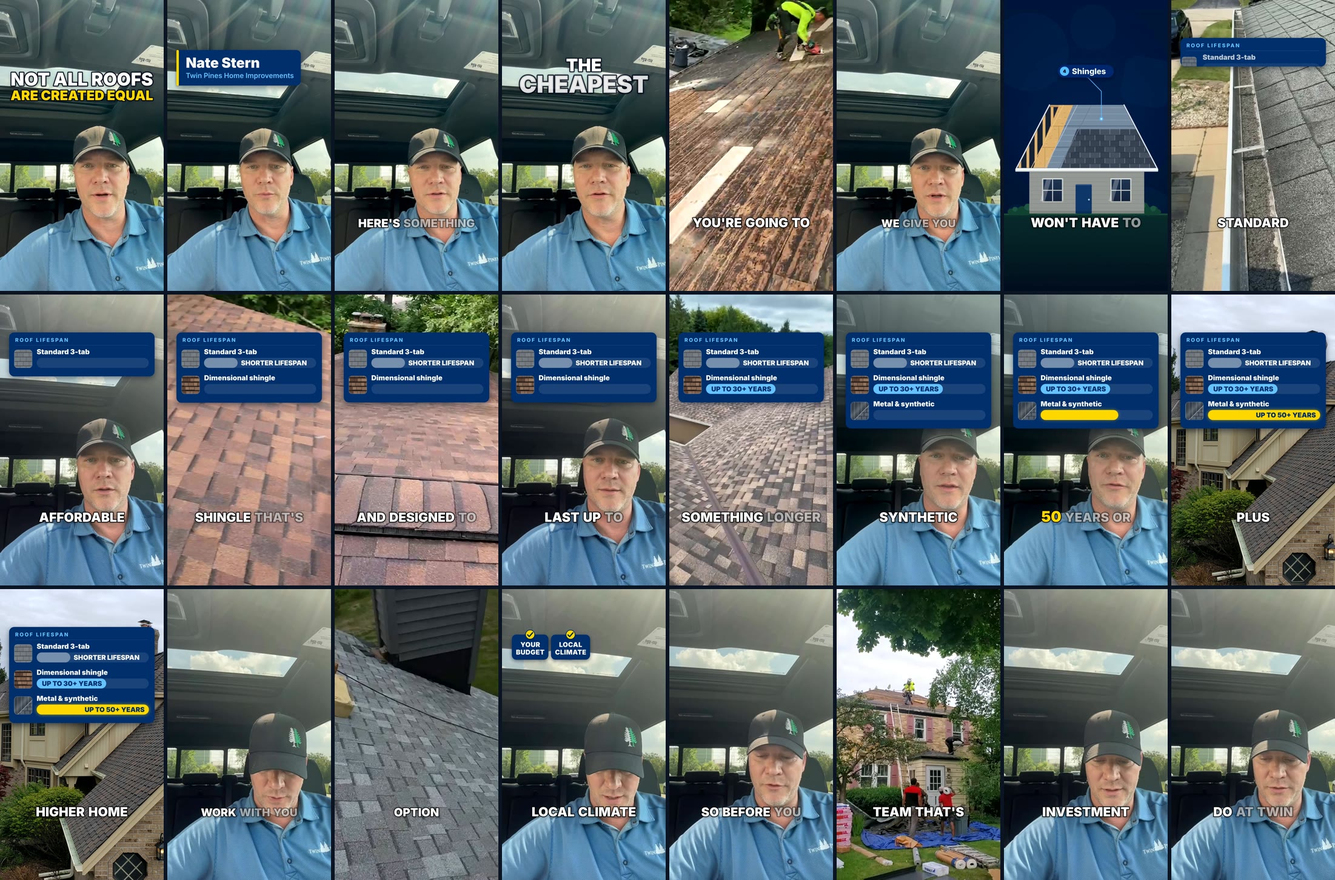
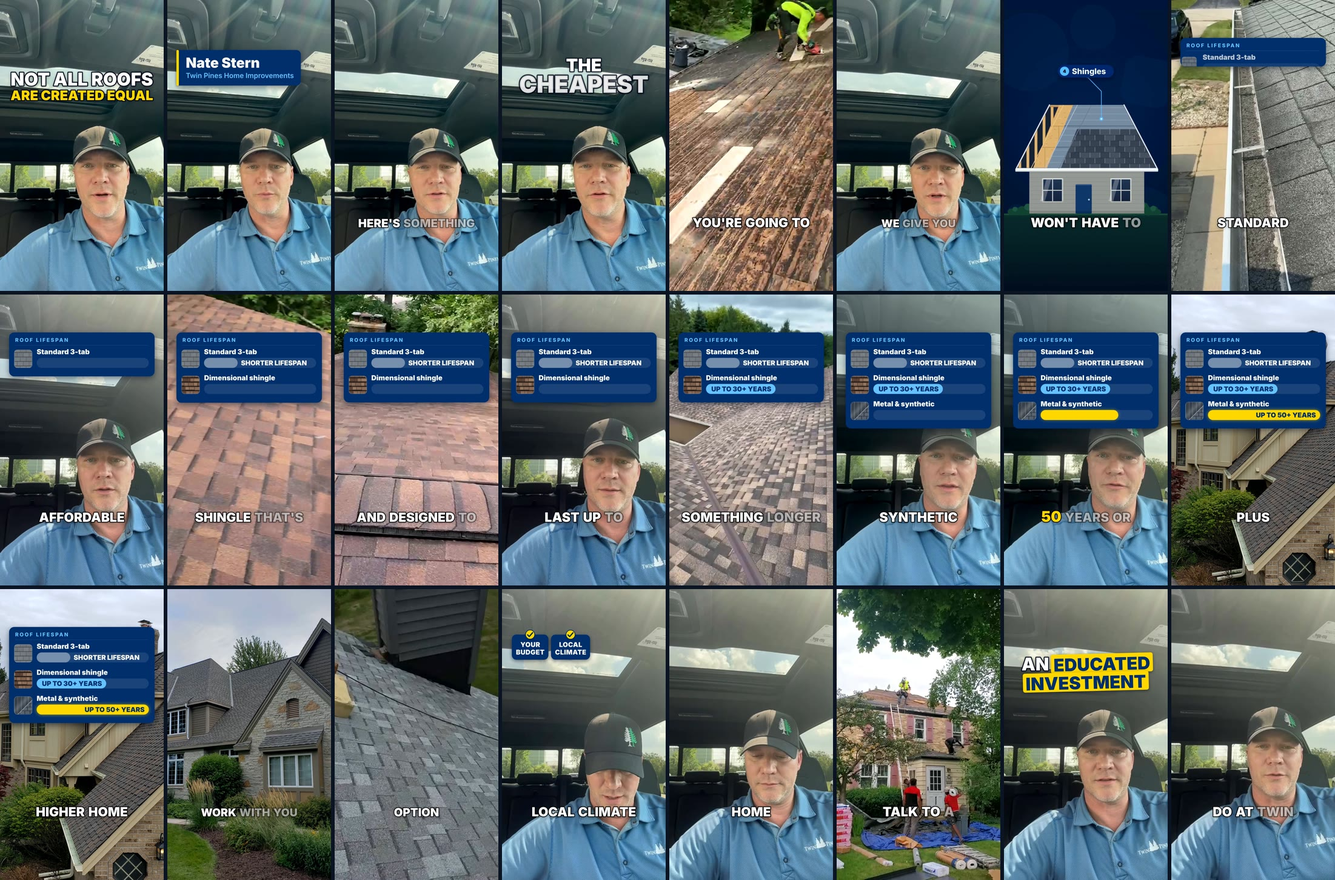
Twin Pines on-camera ads TP1-TP3; A-roll fixes in cut.py (lip-sync, join clicks, tail hold); ads review notes
Claude-Session: https://claude.ai/code/session_015UzNViXSL8nR6UVvdnDndi

Changed region(s): [[0.4941, 0.7128, 1.0, 1.0], [0.1235, 0.6508, 0.247, 1.0], [0.525, 0.7128, 0.5867, 0.7748]]

diff --git a/syrus-motion/tools/review_page.html b/syrus-motion/tools/review_page.html
@@ -30,6 +30,7 @@ h1 em { font-style: normal; color: var(--gold); }
 .lede { max-width: 66ch; color: var(--mute); font-size: 17px; margin: 0; }
 .facts { display: flex; flex-wrap: wrap; gap: 8px 22px; font: 500 13px/1.4 var(--mono); color: var(--mute); }
 .facts b { color: var(--ink); font-weight: 700; }
+.facts a { color: var(--sky); text-underline-offset: 3px; }
 .notes { display: grid; grid-template-columns: repeat(auto-fit, minmax(240px, 1fr)); gap: 12px; margin-block: 8px 0; }
 .note { background: var(--panel); border: 1px solid var(--line); border-radius: 14px; padding: 14px 16px; min-width: 0; font-size: 14px; }
 .note h4 { margin: 0 0 4px; font: 800 13px/1.3 var(--display); font-stretch: 110%; letter-spacing: .04em; text-transform: uppercase; }
